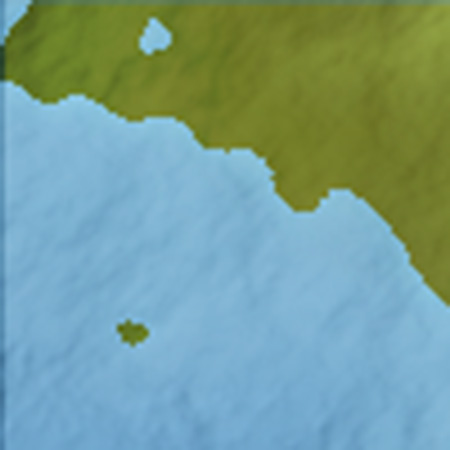
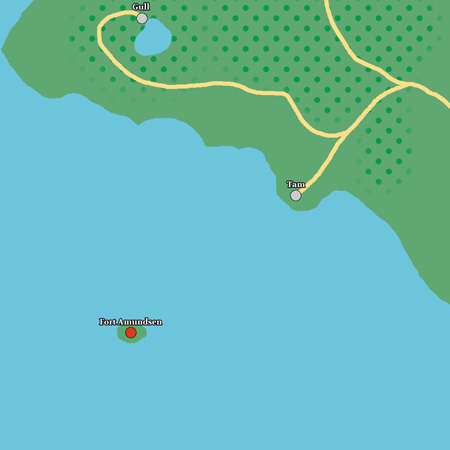
Tile 1,3

diff --git a/map/mappoints.js b/map/mappoints.js
@@ -33,4 +33,7 @@ var MAP_POIs = [
     {'name': 'Carteret Islet', 'x': 0.23, 'y': 3.02 },
     {'name': 'The Almost Forgotten City', 'x': -0.09, 'y': 2.79 },
     {'name': 'Bop', 'x': 1.87, 'y': 2.76 },
+    {'name': 'Tam', 'x': 1.16, 'y': 3.06 },
+    {'name': 'Gull', 'x': 0.81, 'y':3.46 },
+    {'name': 'Fort Amundsen', 'x': 0.79, 'y': 2.76 },
 ]
